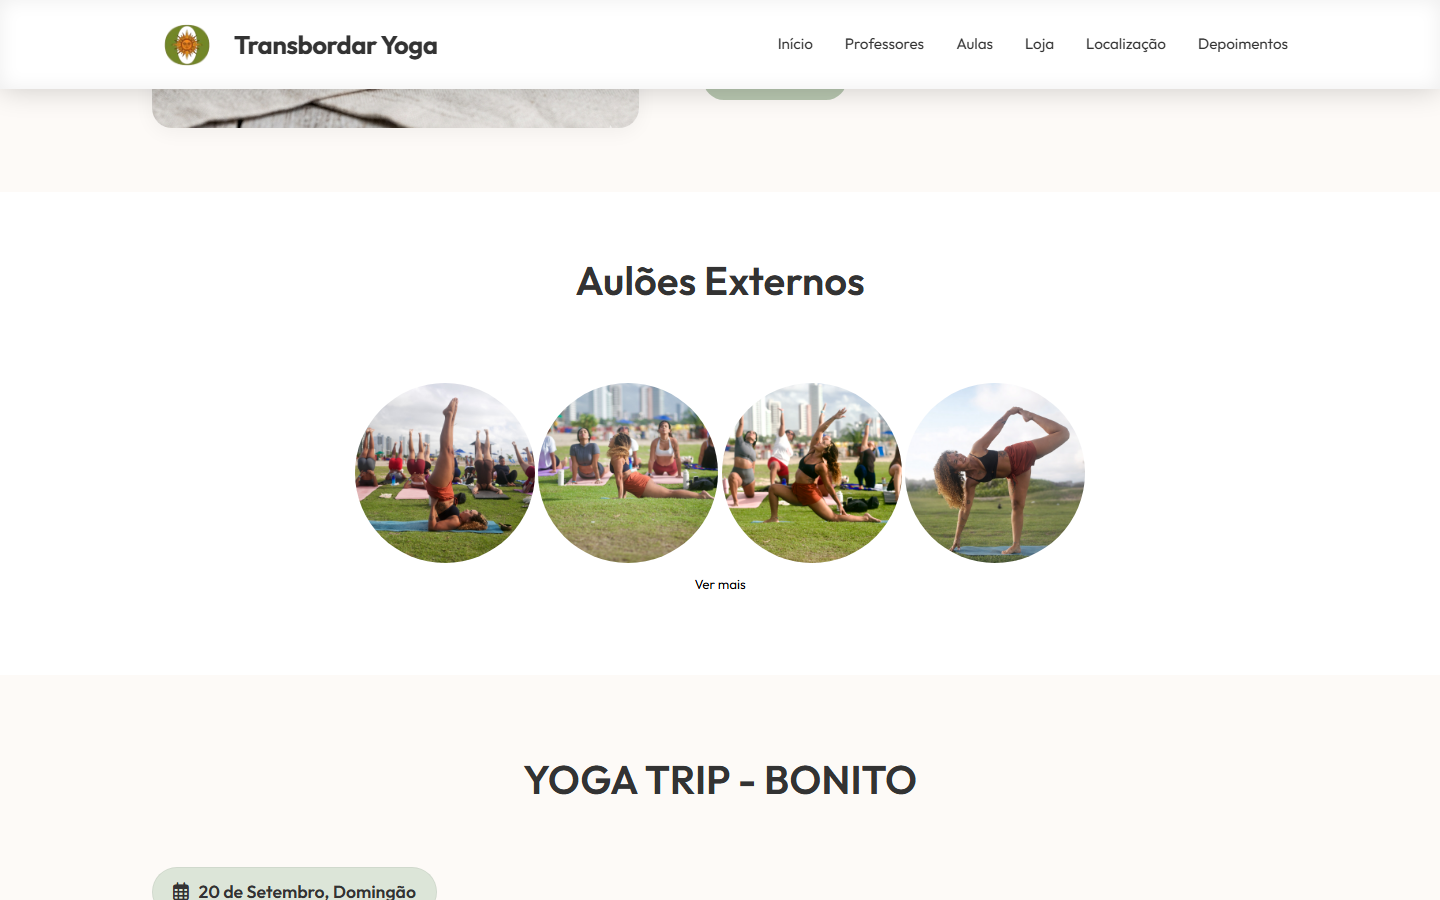
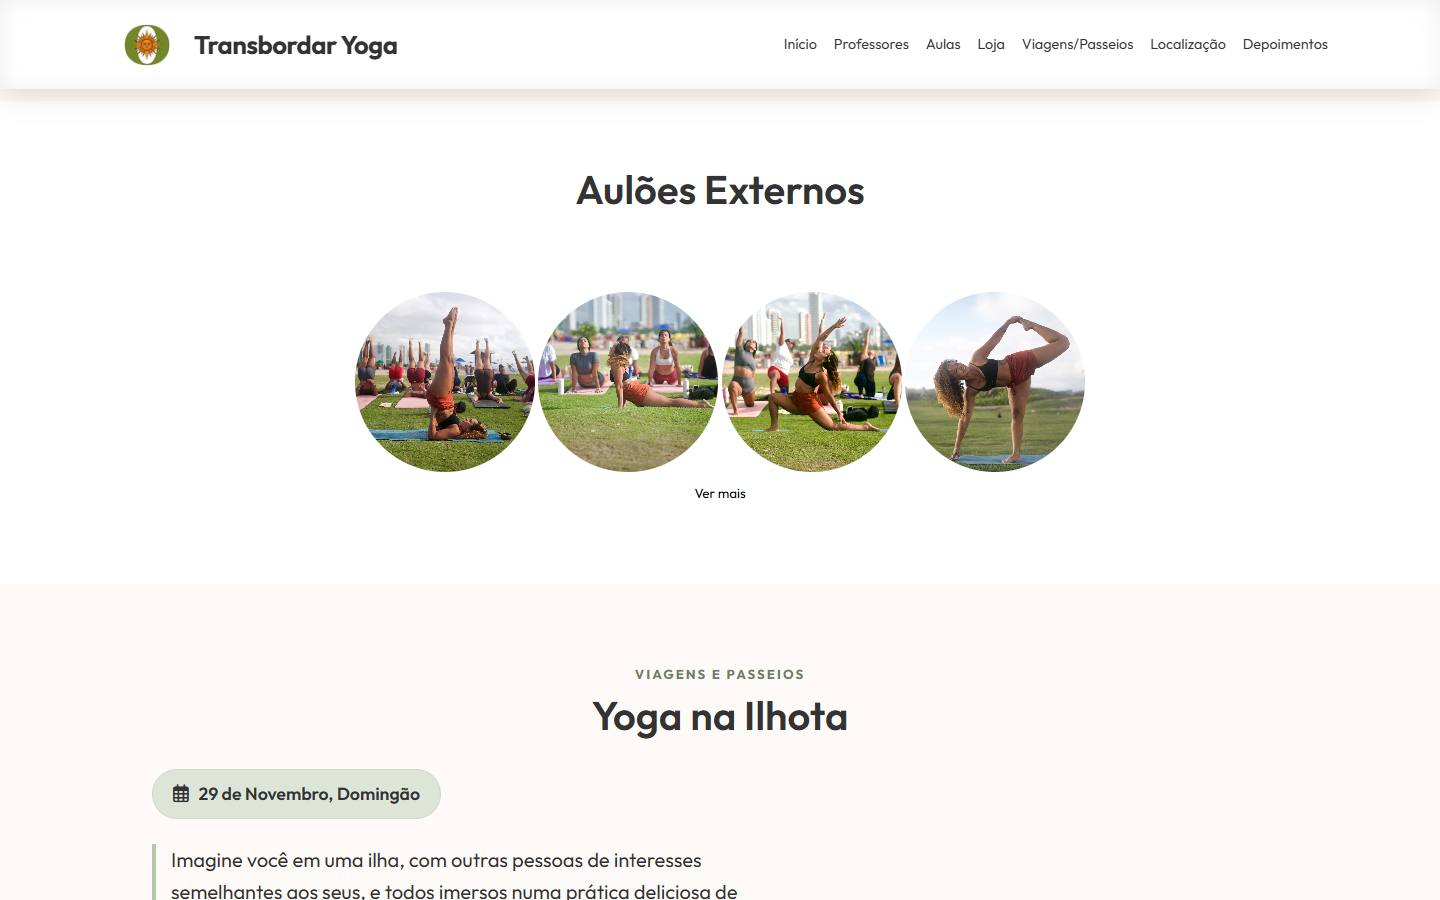
Substitui o Yoga Trip de Bonito pelo Yoga na Ilhota

diff --git a/index.html b/index.html
@@ -549,10 +549,6 @@
         <div class="container">
             <p class="viagens-kicker">Viagens e Passeios</p>
             <h2 class="section-title viagens-title fade-in">Yoga na Ilhota</h2>
-            <p class="viagens-jump">
-                <a href="#viagens">Yoga na Ilhota</a>
-                <a href="#tg-carousel-section">Yoga Trip Bonito</a>
-            </p>
 
             <div class="tg-vc-content-grid">
                 <div class="tg-vc-info-col fade-in">
@@ -620,161 +616,7 @@
         </div>
     </section>
 
-    <!-- ======================================================= -->
-    <!-- NOVA SEÇÃO: YOGA TRIP - BONITO (CARROSSEL + DETALHES)   -->
-    <!-- Totalmente isolada, responsiva e com CSS puro           -->
-    <!-- ======================================================= -->
-    <section class="section tg-vc-section" id="tg-carousel-section">
-        <div class="container">
-            <!-- Título Principal da Seção -->
-            <h2 class="section-title fade-in">YOGA TRIP - BONITO</h2>
-
-            <div class="tg-vc-content-grid">
-
-                <!-- Coluna da Esquerda: Detalhes do Evento -->
-                <div class="tg-vc-info-col fade-in">
-                    <div class="tg-vc-date-badge">
-                        <i class="far fa-calendar-alt"></i> 20 de Setembro, Domingão
-                    </div>
-
-                    <p class="tg-vc-intro-text">
-                        Um bate e volta.<br>
-                        Uma viagem gostosa com pessoas novas, para você voltar diferente e se sentir renovada!
-                    </p>
-
-                    <!-- Bloco: O que está incluso -->
-                    <div class="tg-vc-card">
-                        <h3><i class="fas fa-clipboard-list"></i> Programação, e o que está incluso:</h3>
-                        <ul class="tg-vc-list">
-                            <li><strong>Transporte ida e volta:</strong> saída às 5h do Atacadão de Olinda e às 5:30h da
-                                Praça do Derby. Volta às 16h de Bonito/PE.</li>
-                            <li>Café da manhã</li>
-                            <li>Roda dinâmica de respiração</li>
-                            <li>Visita a 3 cachoeiras</li>
-                            <li>Aventuras: Rapel ou Tirolesa</li>
-                            <li>Trilhas</li>
-                            <li>Yoga no bambuzal</li>
-                            <li>Almoço</li>
-                            <li>Meditação na gruta</li>
-                            <li>Taxas de acessos</li>
-                            <li>Cobertura de imagem de todo o evento! 📸</li>
-                        </ul>
-                    </div>
-
-                    <!-- Bloco: Por onde vamos passar -->
-                    <div class="tg-vc-card">
-                        <h3><i class="fas fa-map-marked-alt"></i> Por onde vamos passar?</h3>
-                        <ul class="tg-vc-sublist">
-                            <li>Cachoeira Pedra Redonda</li>
-                            <li>Grutas</li>
-                            <li>Cachoeira Véu da Noiva 1</li>
-                            <li>Mirante do pôr do sol</li>
-                        </ul>
-                    </div>
-
-                    <!-- Bloco: Não incluso -->
-                    <div class="tg-vc-card tg-vc-card-warning">
-                        <h3><i class="fas fa-times-circle"></i> O que não está incluso?</h3>
-                        <p>Sua bebida na hora do almoço</p>
-                    </div>
-
-                    <!-- Bloco: Quem pode participar -->
-                    <div class="tg-vc-card">
-                        <h3><i class="fas fa-smile"></i> Quem pode participar?</h3>
-                        <p>Quem sentir o chamado! Qualquer pessoa, praticante ou não praticante de yoga, pode
-                            participar!</p>
-                        <p class="tg-vc-highlight-text">Vai ser MUITO FELIZ com a gente.</p>
-                    </div>
-
-                    <!-- Bloco de Preço e CTA -->
-                    <div class="tg-vc-price-box">
-                        <div class="tg-vc-price-wrapper">
-                            <span class="tg-vc-price-label">Valor:</span>
-                            <span class="tg-vc-price-value">R$ 529,00</span>
-                        </div>
-                        <div class="tg-vc-spots-label"><i class="fas fa-exclamation-circle"></i> Vagas limitadas.</div>
-                        <button class="tg-vc-cta-btn"
-                            onclick="window.open('https://wa.me/5581982228973?text=Olá! Quero reservar minha vaga na Yoga Trip de Bonito no dia 20 de Setembro.', '_blank')">
-                            Garantir Minha Vaga <i class="fab fa-whatsapp"></i>
-                        </button>
-                    </div>
-                </div>
-
-                <!-- Coluna da Direita: Carrossel Vertical de Imagens -->
-                <div class="tg-vc-carousel-col fade-in">
-                    <div class="tg-vc-carousel-box">
-                        <!-- Controles por botões de rádio (invisíveis) -->
-                        <input type="radio" name="tg-vc-select" id="tg-vc-r1" checked>
-                        <input type="radio" name="tg-vc-select" id="tg-vc-r2">
-                        <input type="radio" name="tg-vc-select" id="tg-vc-r3">
-                        <input type="radio" name="tg-vc-select" id="tg-vc-r4">
-                        <input type="radio" name="tg-vc-select" id="tg-vc-r5">
-
-                        <!-- Container dos slides -->
-                        <div class="tg-vc-slides">
-                            <!-- Slide 1 -->
-                            <label for="tg-vc-r1" class="tg-vc-slide tg-vc-slide-1">
-                                <img src="assets/imagem1.jpg" alt="Yoga Trip Bonito 1">
-                            </label>
-                            <!-- Slide 2 -->
-                            <label for="tg-vc-r2" class="tg-vc-slide tg-vc-slide-2">
-                                <img src="assets/imagem2.jpg" alt="Yoga Trip Bonito 2">
-                            </label>
-                            <!-- Slide 3 -->
-                            <label for="tg-vc-r3" class="tg-vc-slide tg-vc-slide-3">
-                                <img src="assets/imagem3.jpg" alt="Yoga Trip Bonito 3">
-                            </label>
-                            <!-- Slide 4 -->
-                            <label for="tg-vc-r4" class="tg-vc-slide tg-vc-slide-4">
-                                <img src="assets/imagem4.jpg" alt="Yoga Trip Bonito 4">
-                            </label>
-                            <!-- Slide 5 -->
-                            <label for="tg-vc-r5" class="tg-vc-slide tg-vc-slide-5">
-                                <img src="assets/imagem5.jpg" alt="Yoga Trip Bonito 5">
-                            </label>
-                        </div>
-
-                        <!-- Setas de Navegação -->
-                        <div class="tg-vc-nav-arrows">
-                            <label for="tg-vc-r5" class="tg-vc-arrow tg-vc-arrow-prev tg-vc-arrow-prev-1"
-                                aria-label="Anterior"><i class="fas fa-chevron-up"></i></label>
-                            <label for="tg-vc-r1" class="tg-vc-arrow tg-vc-arrow-prev tg-vc-arrow-prev-2"
-                                aria-label="Anterior"><i class="fas fa-chevron-up"></i></label>
-                            <label for="tg-vc-r2" class="tg-vc-arrow tg-vc-arrow-prev tg-vc-arrow-prev-3"
-                                aria-label="Anterior"><i class="fas fa-chevron-up"></i></label>
-                            <label for="tg-vc-r3" class="tg-vc-arrow tg-vc-arrow-prev tg-vc-arrow-prev-4"
-                                aria-label="Anterior"><i class="fas fa-chevron-up"></i></label>
-                            <label for="tg-vc-r4" class="tg-vc-arrow tg-vc-arrow-prev tg-vc-arrow-prev-5"
-                                aria-label="Anterior"><i class="fas fa-chevron-up"></i></label>
-
-                            <label for="tg-vc-r2" class="tg-vc-arrow tg-vc-arrow-next tg-vc-arrow-next-1"
-                                aria-label="Próximo"><i class="fas fa-chevron-down"></i></label>
-                            <label for="tg-vc-r3" class="tg-vc-arrow tg-vc-arrow-next tg-vc-arrow-next-2"
-                                aria-label="Próximo"><i class="fas fa-chevron-down"></i></label>
-                            <label for="tg-vc-r4" class="tg-vc-arrow tg-vc-arrow-next tg-vc-arrow-next-3"
-                                aria-label="Próximo"><i class="fas fa-chevron-down"></i></label>
-                            <label for="tg-vc-r5" class="tg-vc-arrow tg-vc-arrow-next tg-vc-arrow-next-4"
-                                aria-label="Próximo"><i class="fas fa-chevron-down"></i></label>
-                            <label for="tg-vc-r1" class="tg-vc-arrow tg-vc-arrow-next tg-vc-arrow-next-5"
-                                aria-label="Próximo"><i class="fas fa-chevron-down"></i></label>
-                        </div>
-
-                        <!-- Dots de navegação -->
-                        <div class="tg-vc-dots">
-                            <label for="tg-vc-r1" class="tg-vc-dot tg-vc-dot-1" title="Slide 1"></label>
-                            <label for="tg-vc-r2" class="tg-vc-dot tg-vc-dot-2" title="Slide 2"></label>
-                            <label for="tg-vc-r3" class="tg-vc-dot tg-vc-dot-3" title="Slide 3"></label>
-                            <label for="tg-vc-r4" class="tg-vc-dot tg-vc-dot-4" title="Slide 4"></label>
-                            <label for="tg-vc-r5" class="tg-vc-dot tg-vc-dot-5" title="Slide 5"></label>
-                        </div>
-                    </div>
-                </div>
-
-            </div>
-        </div>
-
-        <!-- CSS Exclusivo da Seção -->
-        <style>
+    <style>
             /* Container da Seção */
             .tg-vc-section {
                 background-color: var(--bg-cream);
@@ -1540,9 +1382,6 @@
                 }
             }
         </style>
-    </section>
-
-
 
 
     <!-- Viagem Section-->

diff --git a/index.css b/index.css
@@ -88,8 +88,7 @@ button {
   color: var(--text-main);
 }
 
-#viagens,
-#tg-carousel-section {
+#viagens {
   scroll-margin-top: 130px;
 }
 
@@ -105,19 +104,6 @@ button {
 
 .viagens-title {
   margin-bottom: 0.8rem;
-}
-
-.viagens-jump {
-  display: flex;
-  justify-content: center;
-  flex-wrap: wrap;
-  gap: 0.75rem 1.5rem;
-  margin-bottom: 0.5rem;
-}
-
-.viagens-jump a {
-  font-weight: 600;
-  border-bottom: 2px solid var(--primary);
 }
 
 .ilhota-photos {

diff --git a/README.md b/README.md
@@ -23,7 +23,7 @@
 
 ---
 
-O Transbordar é um estúdio na Galeria Ana Maria, em Jardim Atlântico, Olinda. O site apresenta o espaço, os professores, as aulas, a loja, os aulões externos e a Yoga Trip para Bonito.
+O Transbordar é um estúdio na Galeria Ana Maria, em Jardim Atlântico, Olinda. O site apresenta o espaço, os professores, as aulas, a loja, os aulões externos e o passeio Yoga na Ilhota.
 
 A página é estática: HTML, CSS e JavaScript, sem build e sem banco de dados. As fotos abaixo foram capturadas da versão local do site.
 
@@ -68,9 +68,9 @@ A página é estática: HTML, CSS e JavaScript, sem build e sem banco de dados. 
   </tr>
   <tr>
     <td width="50%" valign="top">
-      <img src="docs/screenshots/yoga-trip.png" alt="Página da Yoga Trip para Bonito">
-      <br><strong>Yoga Trip — Bonito</strong><br>
-      <sub>Bate e volta com trilhas, cachoeiras e yoga no bambuzal.</sub>
+      <img src="docs/screenshots/yoga-ilhota.png" alt="Passeio Yoga na Ilhota, na Coroa do Avião">
+      <br><strong>Yoga na Ilhota</strong><br>
+      <sub>Domingo na Coroa do Avião, com yoga, mar, barco e café da manhã.</sub>
     </td>
     <td width="50%" valign="top">
       <img src="docs/screenshots/localizacao.png" alt="Endereço do estúdio em Olinda">
